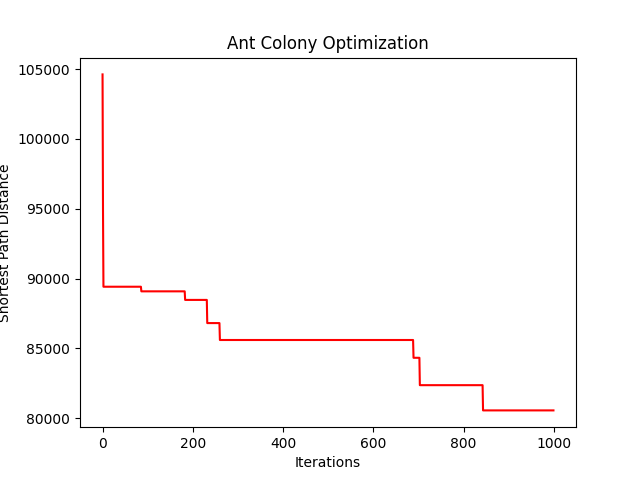
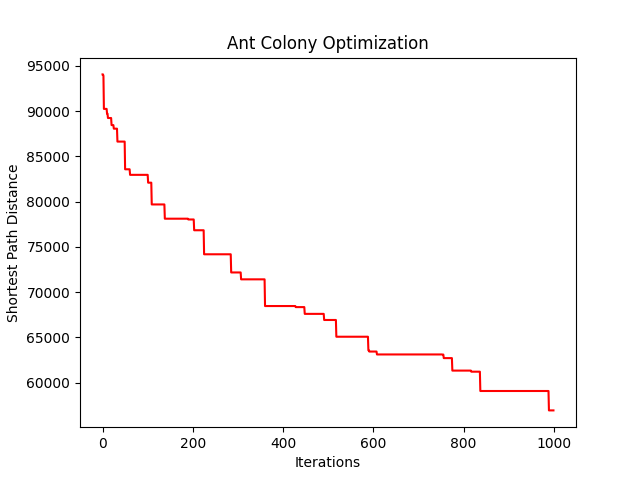
Changes to be committed: 	modified:   main.py 	modified:   multi_ant_colony.py 	modified:   multiantcolony_nodes-500_drones-30.png

diff --git a/main.py b/main.py
@@ -5,72 +5,71 @@ from multi_ant_colony import MultiAntColony  # Ensure this imports your AntColon
 from galogic import *  # Assuming Dustbin and RouteManager are defined here
 from globals import *
 
-# Assuming numNodes and seedValue are defined
-np.random.seed(seedValue)
-random.seed(seedValue)
-
-# Add Dustbins
-for i in range(numNodes):
-    RouteManager.addDustbin(Dustbin())
-
-# Create distance matrix
-distance_matrix = np.zeros((numNodes, numNodes))
-for i in range(numNodes):
-    for j in range(numNodes):
-        if i == j:
-            distance_matrix[i][j] = np.inf  # Ants don't stay in one place
-        else:
-            distance_matrix[i][j] = RouteManager.getDustbin(i).distanceTo(RouteManager.getDustbin(j))
-
-# Ant Colony Optimization parameters
-config = dict(
-    n_ants = numTrucks,
-    n_best = 10,
-    n_iterations = 1000,
-    decay = 0.95,
-    alpha = 1,
-    beta = 2,
-    p0 = 0.5
-)
 
 
-# Initialize Ant Colony
-ant_colony = MultiAntColony(distance_matrix, **config)
 
-# Lists to track progress
-# yaxis = []  # Shortest distance in each iteration
-# xaxis = []  # Iteration count
+if __name__=='__main__':
+    # Assuming numNodes and seedValue are defined
+    np.random.seed(seedValue)
+    random.seed(seedValue)
 
-# Run ACO with progress bar
+    # Add Dustbins
+    for i in range(numNodes):
+        RouteManager.addDustbin(Dustbin())
 
-shortest_pathset, record = ant_colony.run()
-xaxis, yaxis = [i[0] for i in record], [i[1] for i in record]
+    # Create distance matrix
+    distance_matrix = np.zeros((numNodes, numNodes))
+    for i in range(numNodes):
+        for j in range(numNodes):
+            if i == j:
+                distance_matrix[i][j] = np.inf  # Ants don't stay in one place
+            else:
+                distance_matrix[i][j] = RouteManager.getDustbin(i).distanceTo(RouteManager.getDustbin(j))
 
-print('Global minimum distance:', shortest_pathset[1])
-print('Final Path Seq len:', [len(shortest_pathset[0][i]) for i in range(len(shortest_pathset[0]))])
-print('Final path idx', shortest_pathset[0])
-final_paths = [
-    '|'.join([RouteManager.getDustbin(i[0]).toString() for i in path] + [RouteManager.getDustbin(path[-1][1]).toString()])
-    for path in shortest_pathset[0]
-]
-final_paths = '\n'.join(
-    [
-        f'path{i}:{path}' for i,path in enumerate(final_paths)
+    # Ant Colony Optimization parameters
+    config = dict(
+        n_ants = numTrucks,
+        n_best = 10,
+        n_iterations = 1000,
+        decay = 0.95,
+        n_accumulate = 10,
+        alpha = 1,
+        beta = 2,
+        p0 = 0.5
+    )
+
+
+    # Initialize Ant Colony
+    ant_colony = MultiAntColony(distance_matrix, **config)
+    # Run ACO with progress bar
+    shortest_pathset, record = ant_colony.run()
+    xaxis, yaxis = [i[0] for i in record], [i[1] for i in record]
+
+    print('Global minimum distance:', shortest_pathset[1])
+    print('Final Path Seq len:', [len(shortest_pathset[0][i]) for i in range(len(shortest_pathset[0]))])
+    print('Final path idx', shortest_pathset[0])
+    final_paths = [
+        '|'.join([RouteManager.getDustbin(i[0]).toString() for i in path] + [RouteManager.getDustbin(path[-1][1]).toString()])
+        for path in shortest_pathset[0]
     ]
-)
-print('Final Path:', final_paths)
-check_set = set()
-for path in shortest_pathset[0]:
-    for p in path:
-        check_set.add(p[0])
-        check_set.add(p[1])
-assert len(check_set) == numNodes
-assert len(shortest_pathset[0])== numTrucks
-# Plot the results
-fig = plt.figure()
-plt.plot(xaxis, yaxis, 'r-')
-plt.xlabel('Iterations')
-plt.ylabel('Shortest Path Distance')
-plt.title('Ant Colony Optimization')
-fig.savefig(f'multiantcolony_nodes-{numNodes}_drones-{numTrucks}.png')
-plt.show()
+    final_paths = '\n'.join(
+        [
+            f'path{i}:{path}' for i,path in enumerate(final_paths)
+        ]
+    )
+    print('Final Path:', final_paths)
+    check_set = set()
+    for path in shortest_pathset[0]:
+        for p in path:
+            check_set.add(p[0])
+            check_set.add(p[1])
+    assert len(check_set) == numNodes
+    assert len(shortest_pathset[0])== numTrucks
+    # Plot the results
+    fig = plt.figure()
+    plt.plot(xaxis, yaxis, 'r-')
+    plt.xlabel('Iterations')
+    plt.ylabel('Shortest Path Distance')
+    plt.title('Ant Colony Optimization')
+    fig.savefig(f'multiantcolony_nodes-{numNodes}_drones-{numTrucks}.png')
+    plt.show()

diff --git a/multi_ant_colony.py b/multi_ant_colony.py
@@ -1,10 +1,12 @@
 import random as rn
 import numpy as np
 import progressbar
+import time
+import multiprocessing
 
 class MultiAntColony(object):
 
-    def __init__(self, distances, n_ants, n_best, n_iterations, decay, alpha=1, beta=1, p0=0.1):
+    def __init__(self, distances, n_ants, n_best, n_iterations, n_accumulate, decay, alpha=1, beta=1, p0=0.1):
         """
         Args:
             distances (2D numpy.array): Square matrix of distances. Diagonal is assumed to be np.inf.
@@ -26,6 +28,7 @@ class MultiAntColony(object):
         self.n_ants = n_ants
         self.n_iterations = n_iterations
         self.decay = decay# pheromone decay
+        self.n_accumulate = n_accumulate
         self.alpha = alpha
         self.beta = beta
         self.p0 = p0
@@ -33,30 +36,34 @@ class MultiAntColony(object):
     def run(self):
         '''
         Returns:
-            final_shortest_path_set (tuple): (path_set, path_set_len)
+            global_shortest_pathset (tuple): (path_set, path_set_len)
 
-            shortest_path_record (list): list[(iter_idx, path_len)]
+            shortest_pathset_record (list): list[(iter_idx, path_len)]
             
         '''
-        shortest_path = None
-        all_time_shortest_paths = ("placeholder", np.inf)
-        shortest_path_record = []
+        global_shortest_pathset = ("placeholder", np.inf)
+        shortest_pathset_record = []
         pbar = progressbar.ProgressBar(maxval=self.n_iterations)(range(self.n_iterations))
         for i in pbar:
-            all_paths = self.gen_all_paths()# list[(path, path_len)] path: list[(node_i, node_{i+1})]
-            self.spread_pheronome(all_paths)
-            # shortest_path = min(all_paths, key=lambda x: x[1])
-            shortest_path = (all_paths, self.calculate_pathset_len(all_paths))
-            if shortest_path[1] < all_time_shortest_paths[1]:
-                all_time_shortest_paths = shortest_path       
-            shortest_path_record.append((i, all_time_shortest_paths[1]))
-        return all_time_shortest_paths, shortest_path_record
+            pathset_l = []
+            # pool = multiprocessing.Pool()
+            # pathset_l = pool.starmap(self.gen_pathset, [() for _ in range(self.n_accumulate)])
+            # pathset_l = [pool.apply(self.gen_pathset ) for _ in range(self.n_accumulate) ]
+            # pathset_l = pool.map(self.gen_pathset, [None for _ in range(self.n_accumulate)])
+            for j in range(self.n_accumulate):
+                pathset_l.append(self.gen_pathset())
+            self.spread_pheronome(pathset_l)
+            shortest_pathset = min(pathset_l, key=lambda x: x[1])
+            if shortest_pathset[1] < global_shortest_pathset[1]:
+                global_shortest_pathset = shortest_pathset       
+            shortest_pathset_record.append((i, global_shortest_pathset[1]))
+        return global_shortest_pathset, shortest_pathset_record
 
-    def spread_pheronome(self, all_paths):
-        all_paths_length = self.calculate_pathset_len(all_paths)
-        for path in all_paths:
-            for move in path:
-                self.pheromone[move] += 1.0/all_paths_length
+    def spread_pheronome(self, all_pathset):
+        for pathset in all_pathset:
+            for path in pathset[0]:
+                for move in path:
+                    self.pheromone[move] += 1.0/pathset[1]
 
     def calculate_path_len(self, path):
         s = 0
@@ -72,11 +79,11 @@ class MultiAntColony(object):
         # s
         return s
 
-    def gen_all_paths(self):
+    def gen_pathset(self):
         all_paths = []
         paths = self.gen_paths(0)
         # all_paths = [(path, self.calculate_path_len(path)) for path in paths]
-        return paths
+        return (paths, self.calculate_pathset_len(paths))
 
 
     def gen_paths(self, start):
